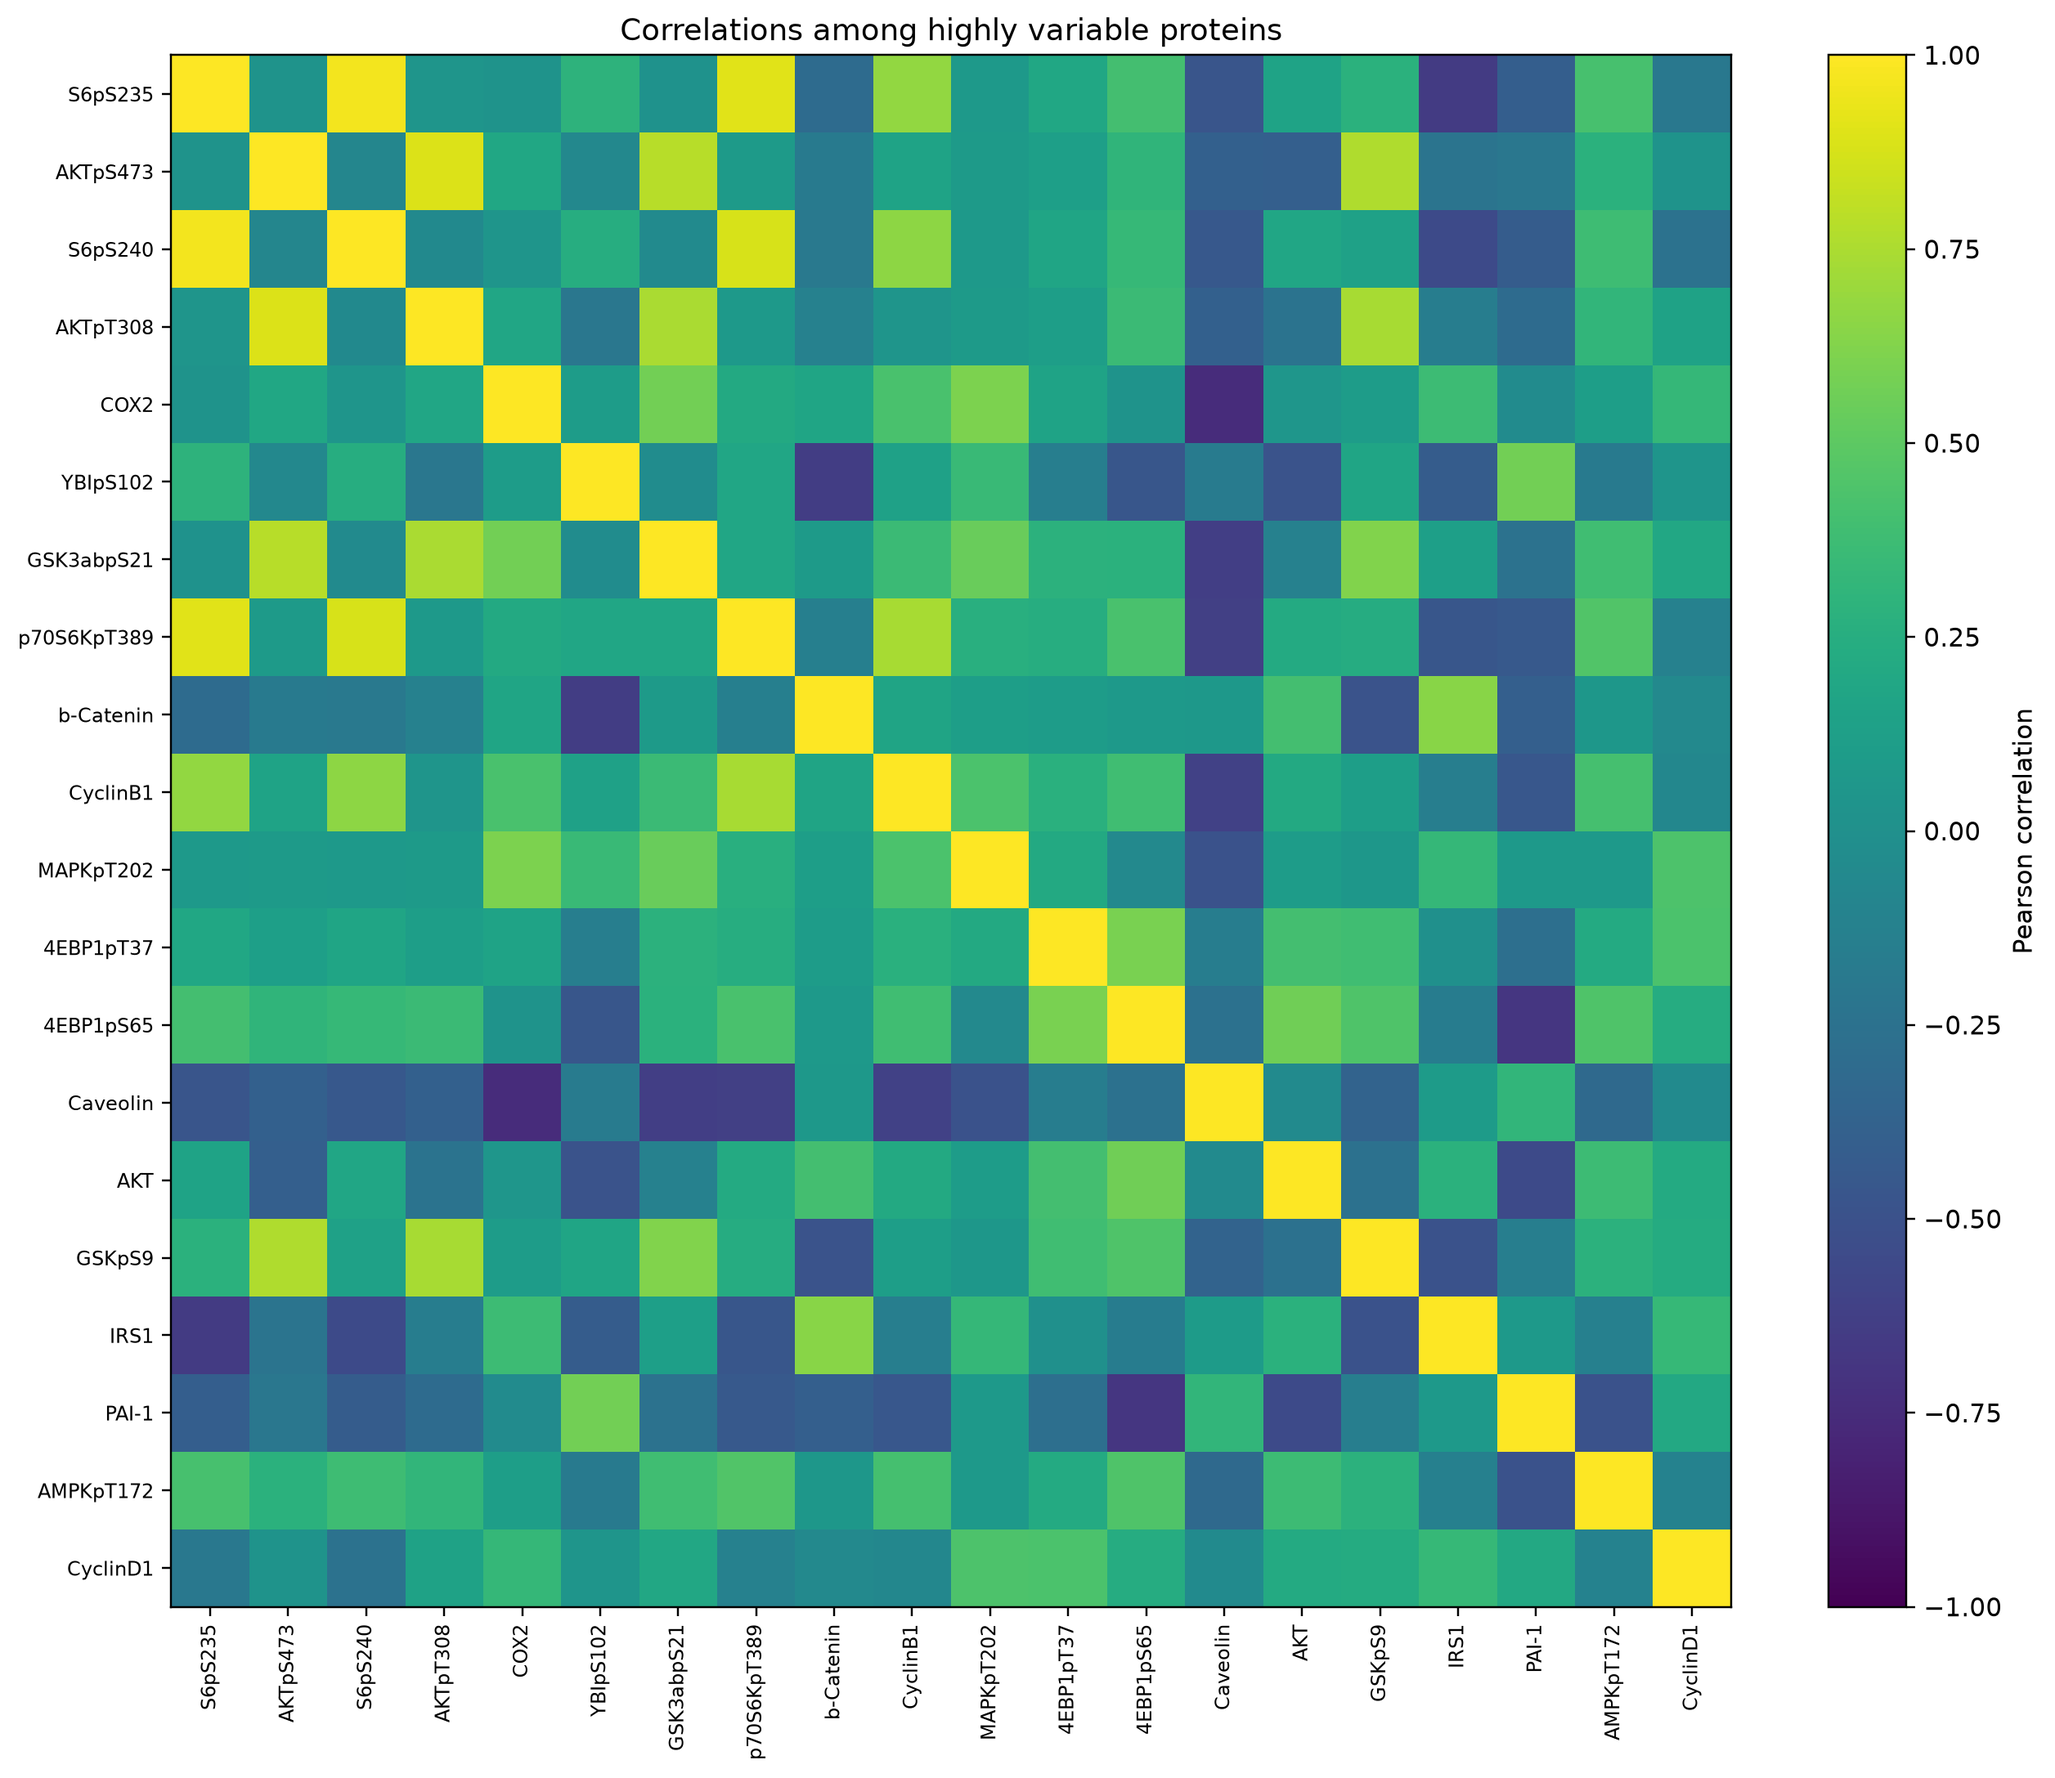
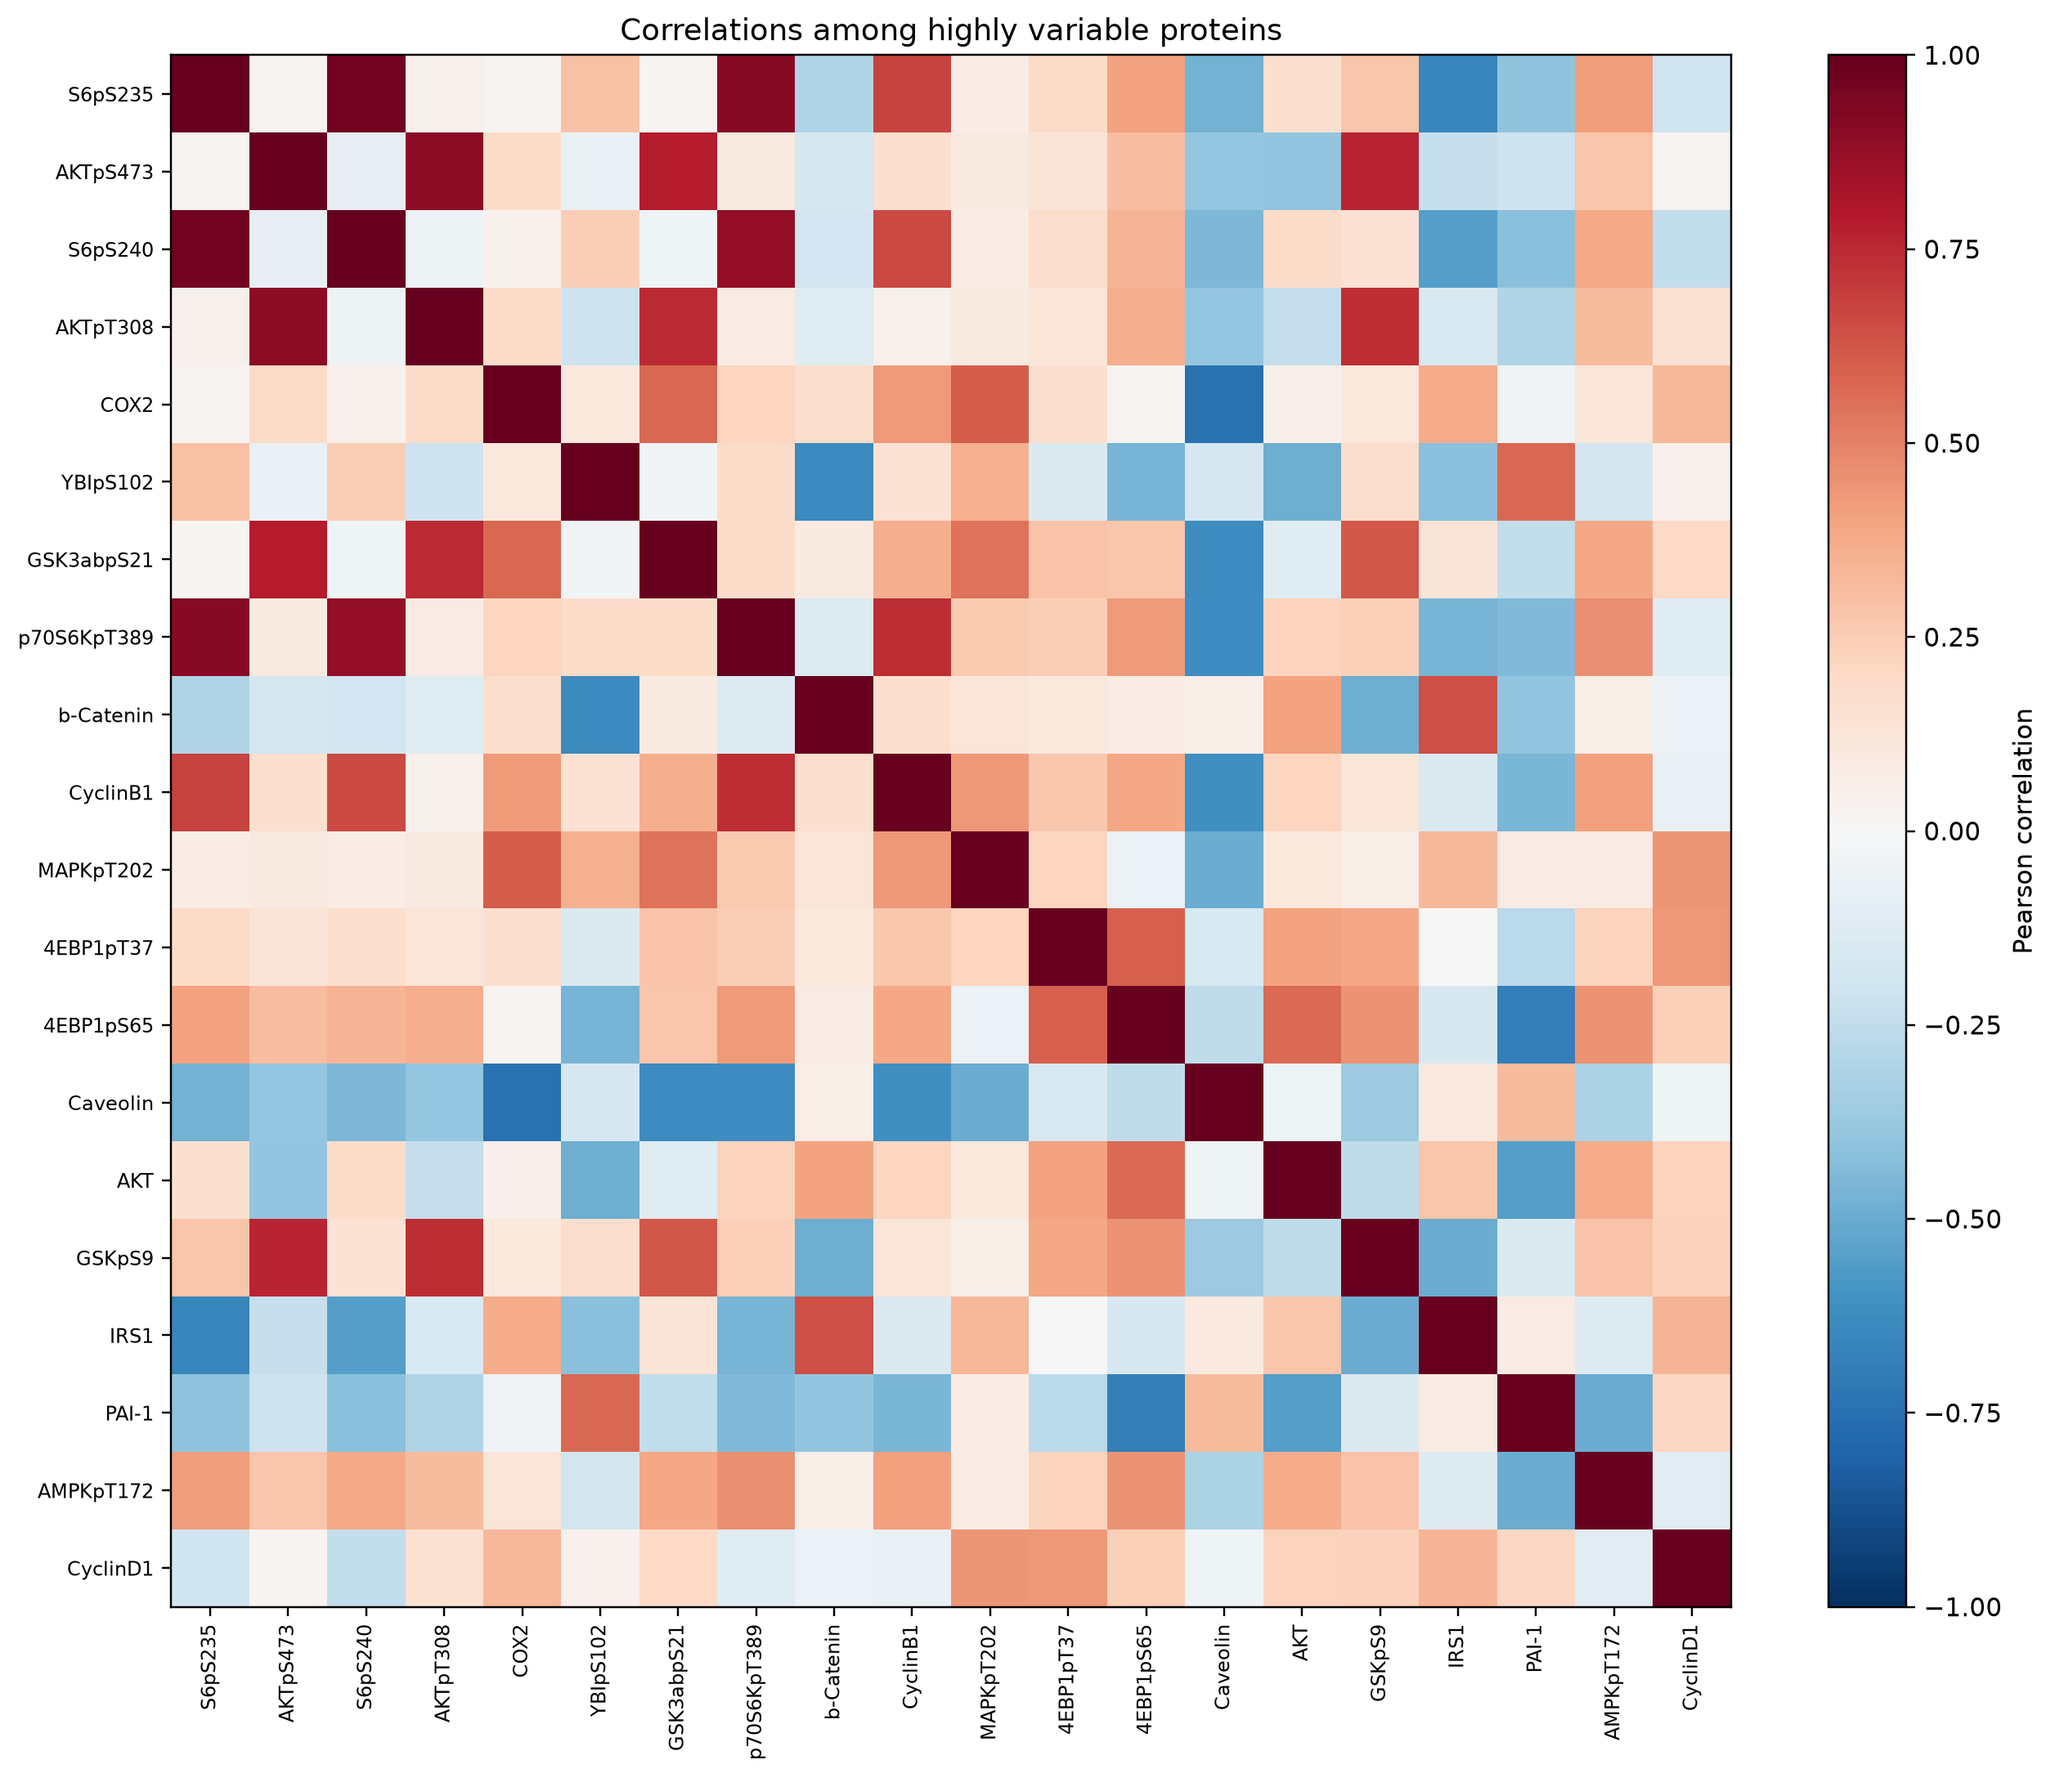
results

diff --git a/_posts/2026-08-15-bio-network.md b/_posts/2026-08-15-bio-network.md
@@ -263,6 +263,30 @@ permalink: /research/bio-network/
   </div>
 
   <div class="artifact-card">
+  <img src="/assets/images/protein_correlation_network.png"
+     alt="Correlation network of highly variable protein responses">
+    <h4>Which proteins tend to respond together?</h4>
+
+      <p>
+        Keeping only the stronger associations to turn the same protein
+    correlation heatmap into a network representation.
+      </p>
+  </div>
+
+  <div class="artifact-card">
+  <img src="/assets/images/protein_graphical_lasso_network.png"
+     alt="Partial correlation network of highly variable protein responses">
+    <h4>Which proteins remain associated after accounting for the others?</h4>
+
+      <p>
+        Curious how the network changes when moving from pairwise correlations
+  to Graphical Lasso while keeping the same highly variable proteins. This is probably not the most appropriate choice for Graphical Lasso, since the
+  method conditions on all included nodes. Curious to explore how the network changes
+    when using the full set of measured proteins.
+      </p>
+  </div>
+
+  <div class="artifact-card">
   <img src="/assets/images/pca_scree_plot.png"
      alt="PCA scree plot of molecular responses">
     <h4>Can the response space be compressed?</h4>
